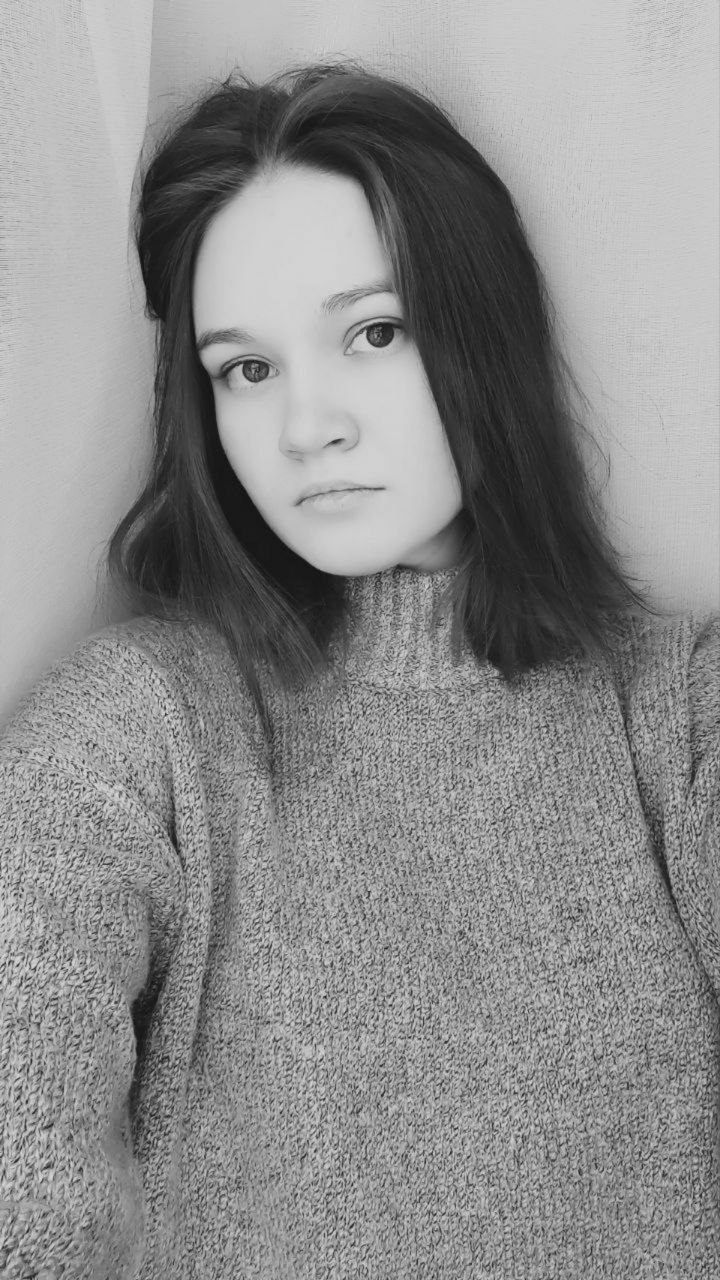
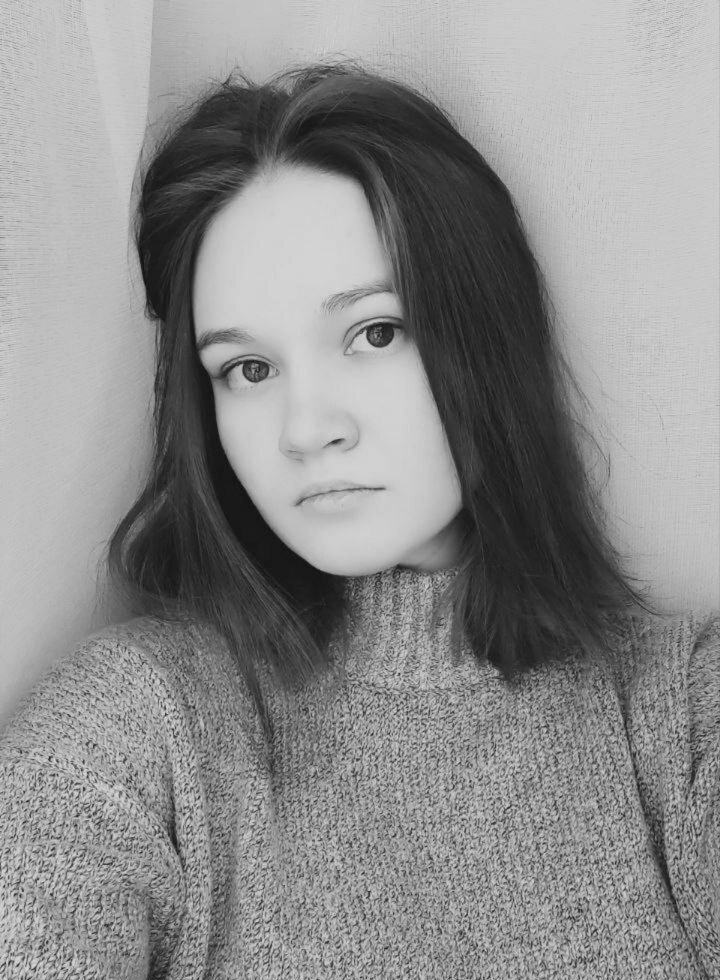
feat: change location text and add new photo

diff --git a/style.css b/style.css
@@ -1,45 +1,61 @@
+* {
+    /* border: 1px solid; */
+}
+
 body {
-    width: 800px;
+    width: 900px;
     margin: 0 auto;
-
-
 }
 
 
 .my-name {
     font-family: BlackMango;
-    font-weight: 300
+    font-weight: 200;
+    font-size: 55px;
+    letter-spacing: 15px;
+    line-height: 0.2;
+    float: right;
+    margin-right:60px;
 }
 
 .my-last-name {
     font-family: Halimum;
     font-weight: 100;
+    text-transform: none;
+    font-size: 40px;
+    line-height: 1;
 }
 
 .my-work-name {
     font-family: BeVietnamPro;
     font-weight: 200;
+    font-size: 18px;
+    letter-spacing: 10px;
+    margin-bottom: 50px;
+    text-align: center;
 }
 
 p {
+    /* margin-left: 30px; */
     font-family: BeVietnamPro;
     font-weight: 200;
+    font-size: 17px;
 }
 
 h1 {
     font-family: BeVietnamPro;
     font-weight: 500;
     text-transform: uppercase;
+    font-size: 18px;
+    /* background-color: brown; */
+    margin-top: 50px;
 }
 
 
-/* header {
-    float: right;
-} */
-
 .My-photo {
-    width: 250px;
-
+    width: 350px;
+    border-radius: 15px;
+    /* height: ; */
 }
 
 .logo-rsschool {
@@ -49,16 +65,21 @@ h1 {
 .parent {
     display: flex;
     flex-direction: row-reverse;
-    align-items: center;
+    /* align-items: center; */
+    margin-top: 10px;
 }
 
 .child-text {
-    background-color: rgb(221, 221, 221);
+    /* background-color: rgb(221, 221, 221); */
+    width: 50%;
 }
 
 .child-photo {
     margin-right: 50px;
-    background-color: rgb(221, 221, 221);
+    /* background-color: rgb(221, 221, 221); */
+    width: 50%;
+    text-align: center;
+    margin-top: 80px;
 }
 
 footer {
@@ -66,13 +87,35 @@ footer {
     flex-direction: row-reverse;
     justify-content: space-between;
     background-color: rgb(221, 221, 221);
+    border-top-right-radius: 15px;
+    border-top-left-radius: 15px;
     position: absolute;
     bottom: 0;
-    width: 800px;
-    
-
+    width: 900px;
+    align-items: center;
 }
 
+.work {
+    /* background-color: blue; */
+    float: left;
+    width: 35%;
+    line-height: 0.5;
+    margin-top: -15px;
+}
+
+.data {
+    float: right;
+    text-align: center;
+    /* background-color: blue; */
+    width: 30%;
+    margin-left: 100px;
+    line-height: 0.5;
+    margin-top: -15px;
+}
+
+.experience {
+    margin-top: 140px;
+}
 
 @font-face {
     font-family: BeVietnamPro;

diff --git a/index.html b/index.html
@@ -41,28 +41,22 @@
                             skilled Frontend developer.</p>
                     </section>
                     <section>
-                        <h1>Education</h1>
-                        <p>💻 - School 21:
 
-                            I have been studying at this school for one year, and I am still continuing. It was here
-                            that I
-                            gained basic programming knowledge.
+                        <h1 class="education">Education</h1>
+                        <div class="work">
+                            <p>School 21</p>
+                            <p>JavaScript Club</p>
+                            <p>RS School</p>
+                        </div>
+                        <div class="data">
+                            <p>2023 - 2024</p>
+                            <p>2024</p>
+                            <p>2024</p>
+                        </div>
 
-                            👥 - JavaScript Club:
-
-                            Friends we knew formed a club for learning how to create websites. I joined them a month
-                            ago.
-
-                            📚 - MDN Web Docs:
-
-                            My first site from which I started learning HTML, CSS, JavaScript.
-
-                            💡 - RS School:
-
-                            I’m very glad to join you. I’m sure I’ll gain a lot of experience from your courses.</p>
                     </section>
                     <section>
-                        <h1>Experience</h1>
+                        <h1 class="experience">Experience</h1>
                         <p>I have no experience as a programmer.
 
                             I used to work in a library, create presentations and draw posters.</p>
@@ -105,8 +99,8 @@
         </div>
     </div>
     <footer>
-        <a href="https://rs.school/courses/javascript-preschool-ru"><img class="logo-rsschool" src="assets/images/rsschool-logo.png"
-                alt="RS School Logotype" /></a>
+        <a href="https://rs.school/courses/javascript-preschool-ru"><img class="logo-rsschool"
+                src="assets/images/rsschool-logo.png" alt="RS School Logotype" /></a>
         <a href="https://github.com/CaroleblD">GitHub</a>
         <p>© 2024 by Daria Mishchenko</p>
     </footer>
